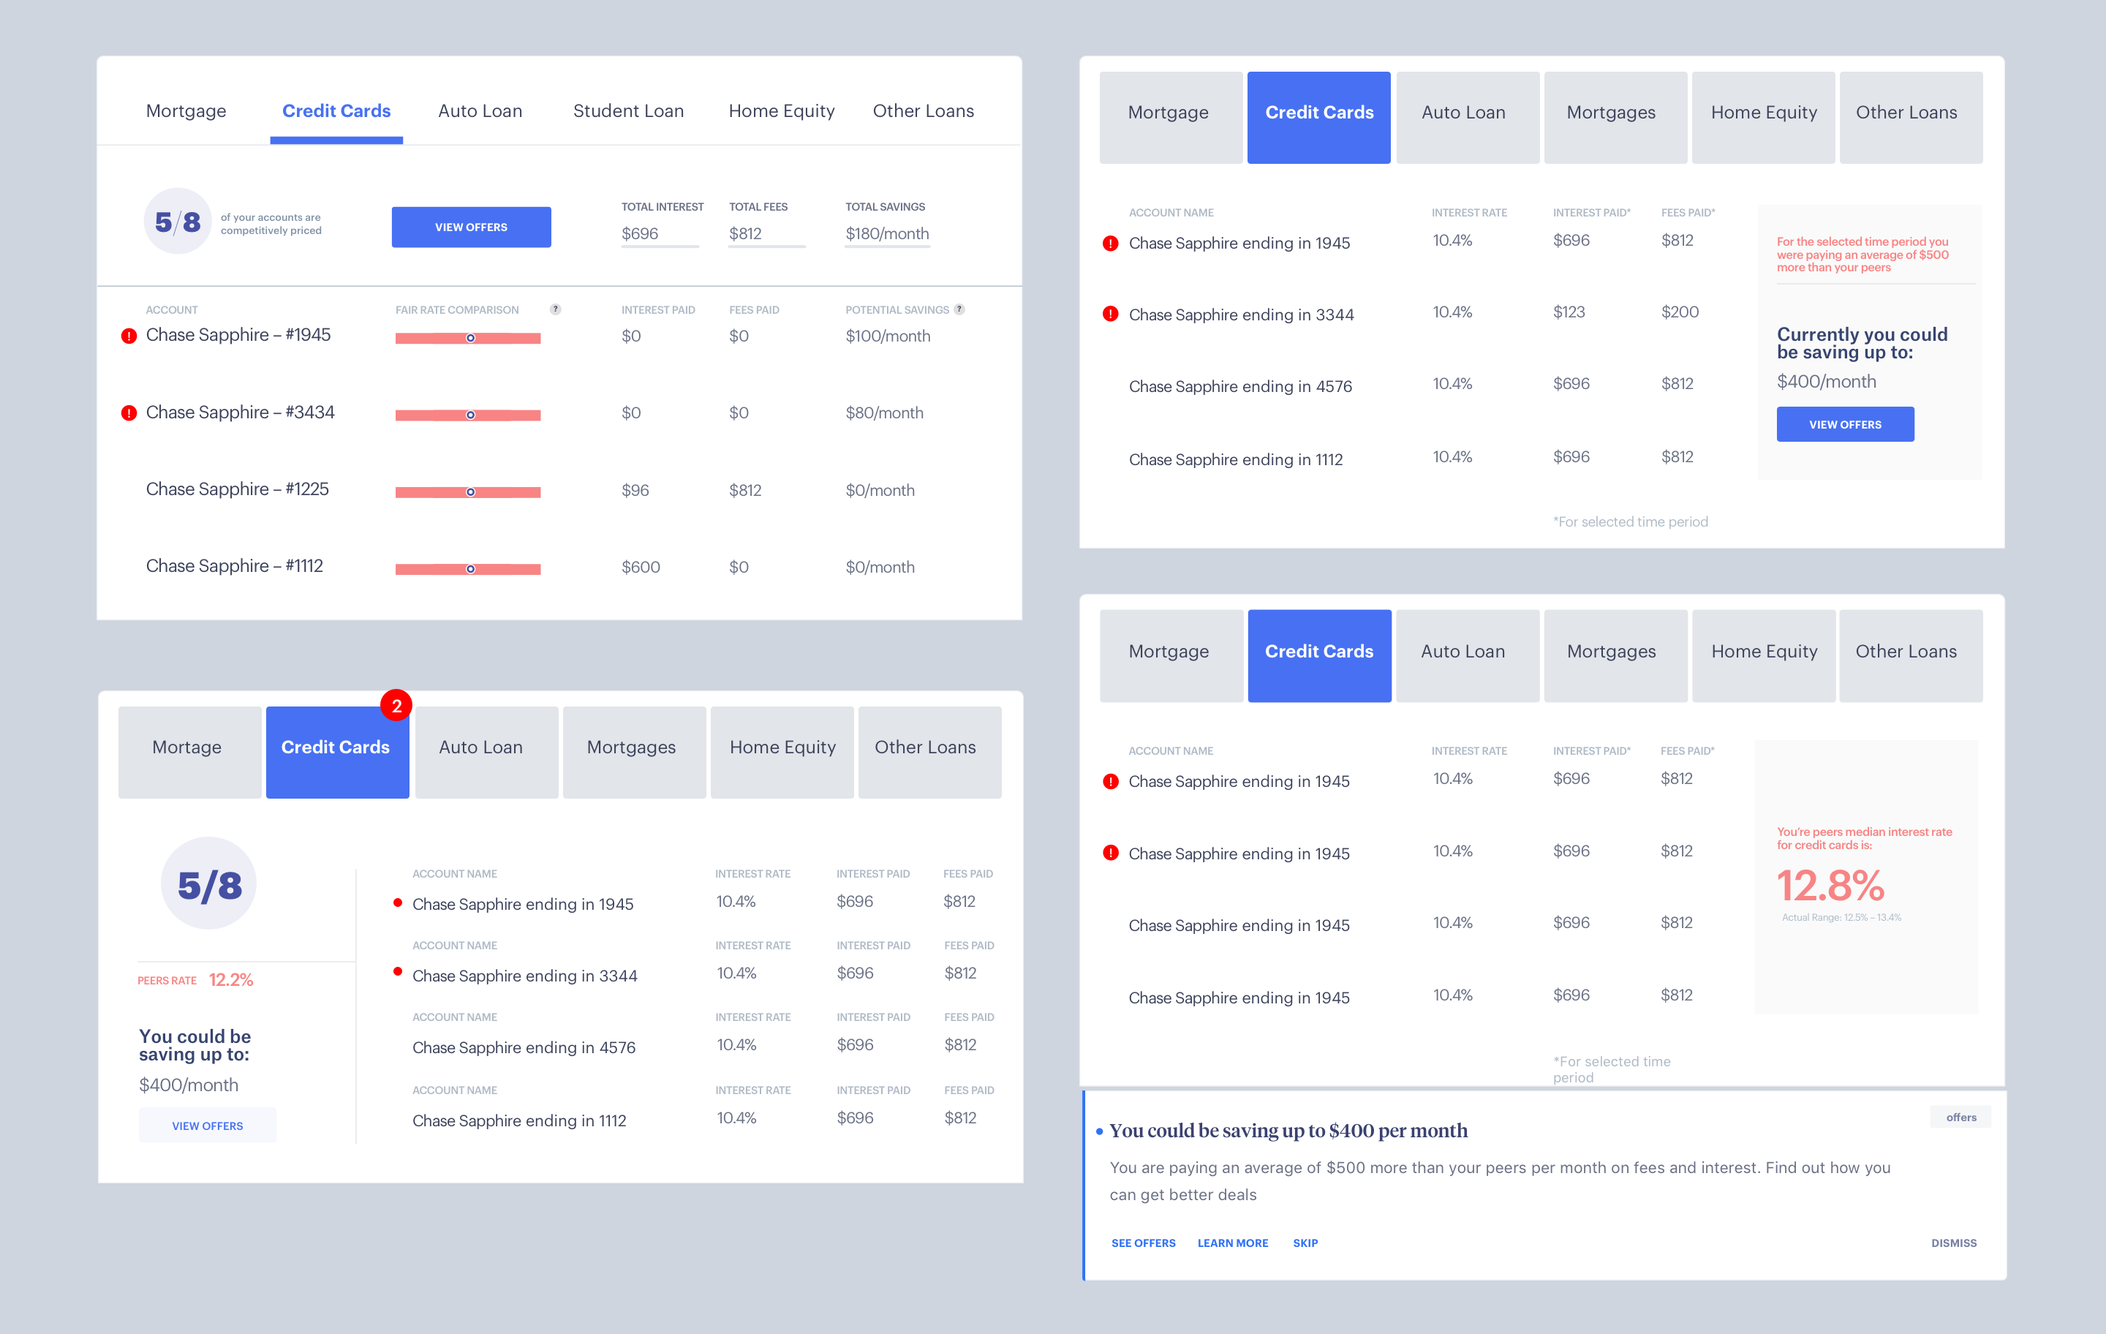
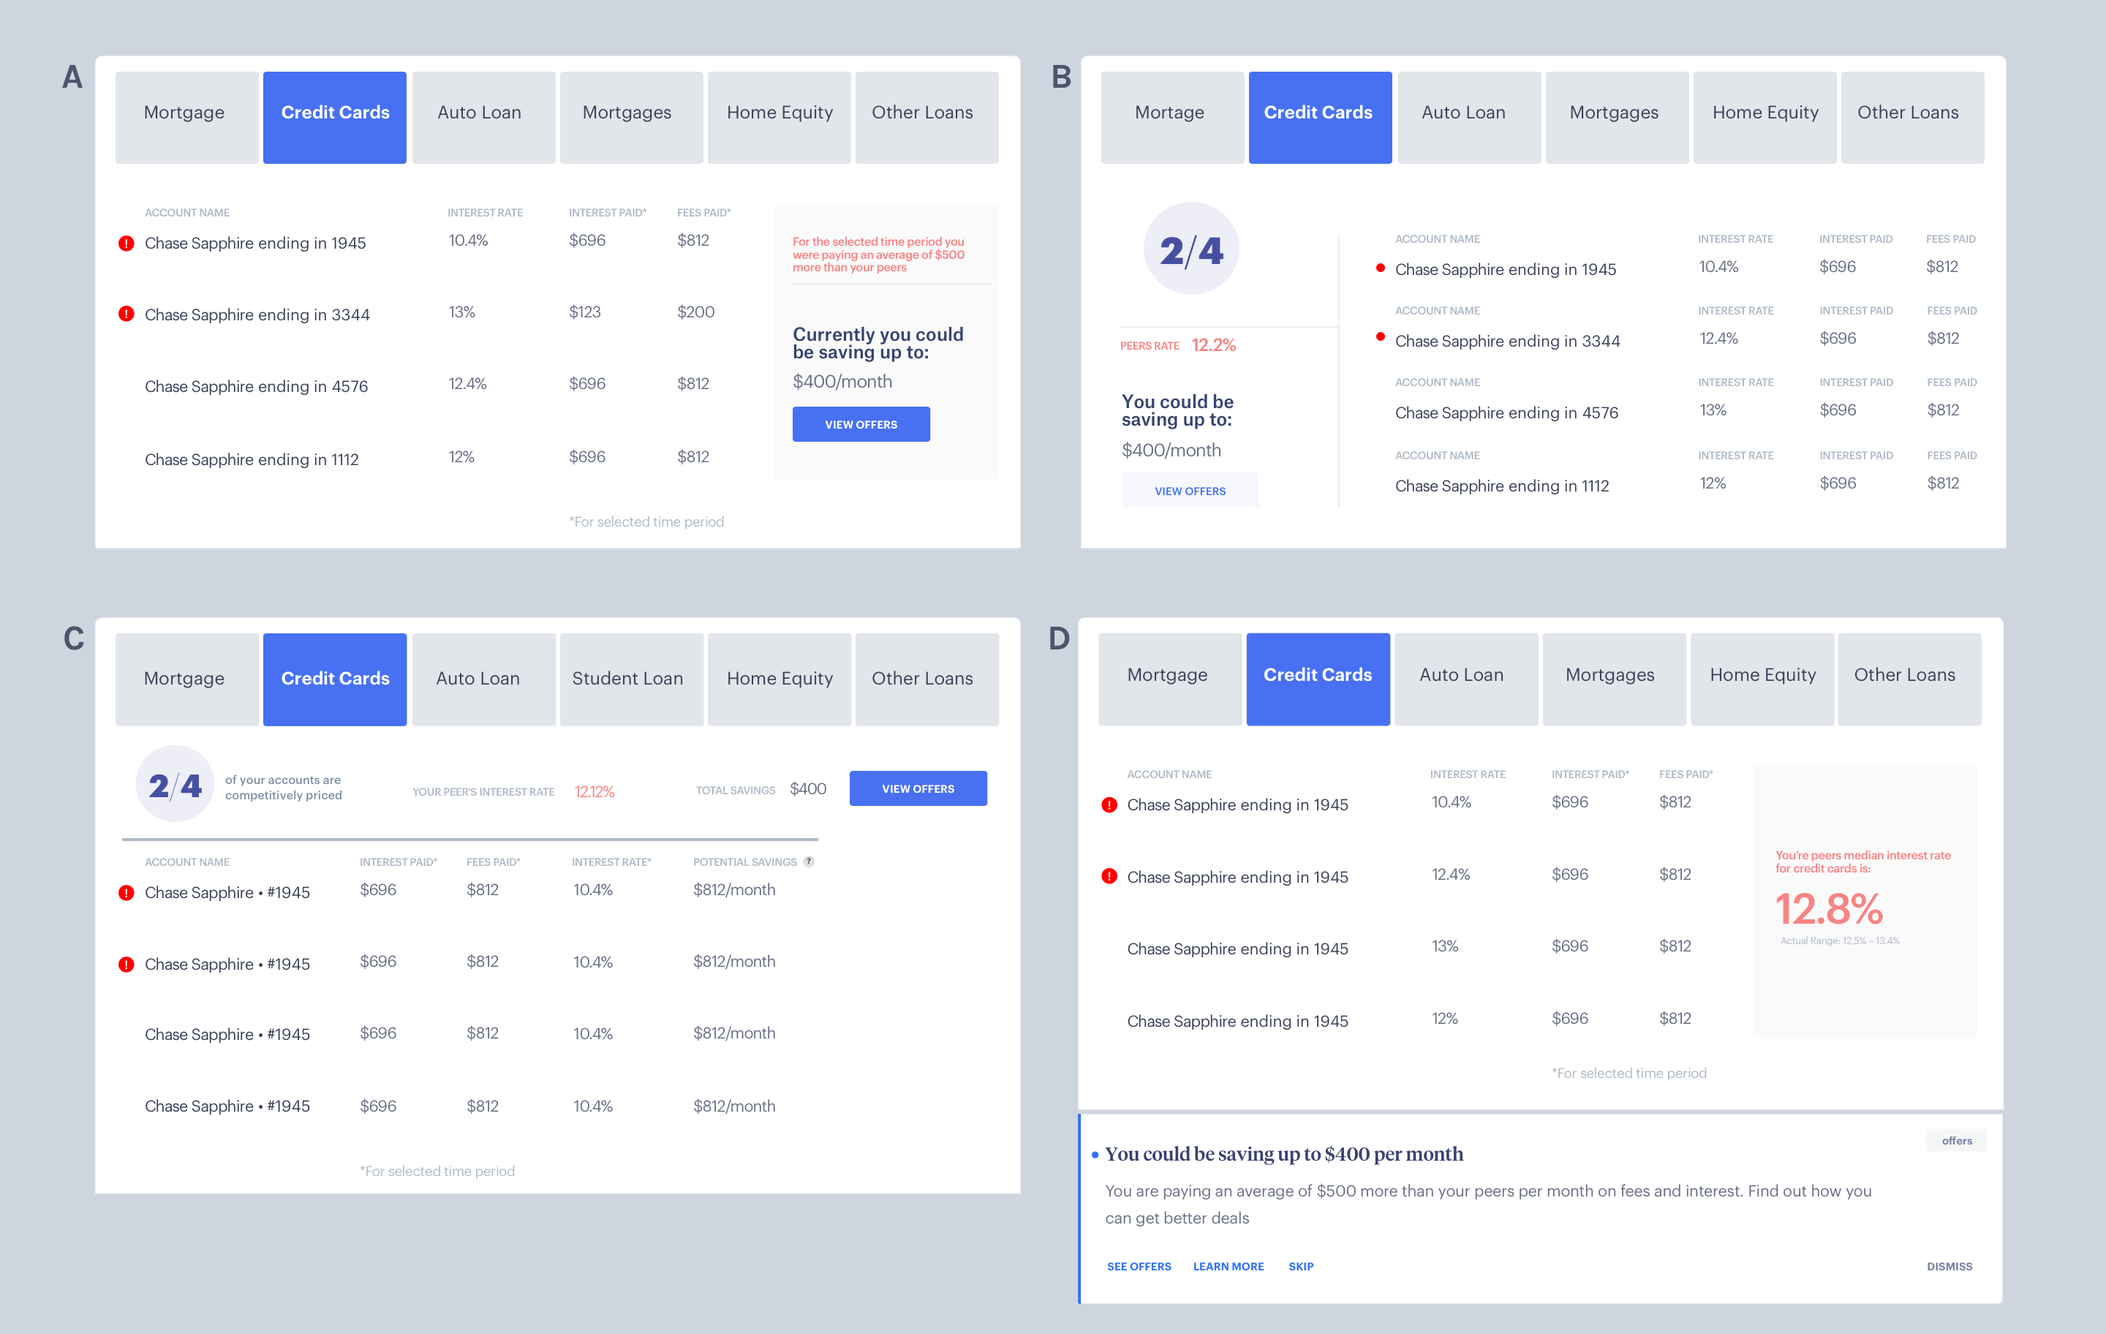
updated all status money copy and layout

diff --git a/sts.html b/sts.html
@@ -75,9 +75,10 @@
 	<!-- HEADER -->
 
 	<!-- HERO  -->
-	<section id="hero" class="hero-full" style="background-image:url('files/images/sts/header-sts.png');">
+   <section id="hero" class="hero-full parallax-section" data-parallax-image="files/images/sts/header_sts.png">
+<!-- 	<section id="hero" class="hero-full" style="background-image:url('files/images/sts/header_sts.png');"> -->
 		<div class="page-title">
-			<h5 class="alttitle">Presenting information clearly</h5>
+			<h5 class="alttitle">Bringing data to the people</h5>
 			<h1><strong>Status Money</strong></h1>
 		</div>
 		<a id="scroll-down" href="#">Scroll Down</a>
@@ -89,8 +90,7 @@
 
 		<div class="wrapper">
 			<div class="project-info column-section clearfix">
-				<div class="column one-th
-				ird">
+				<div class="column one-third">
 					<h6 class="colored"><strong>Date</strong></h6>
 					<h6 class="alttitle">2017</h6>
 				</div>
@@ -118,13 +118,10 @@
 				<div class="column-section clearfix minor-margin">
 					<div class="column two-third">
 						<p>
-						Status Money is a personal finance management platform that allows users to compare their finances with similar peer groups in order to better track their overall financial wellness. I worked on this project while at Elephant, and the project was positioned as a way to test out a new client working relationship. The two key stakeholders and owners of the startup were placed in the office two days out of the week, allowing us to have more informal reviews and consistent daily feedback.
+						Status Money is a personal finance management platform that allows users to compare their finances with similar peer groups in order to better track their overall financial wellness. The MVP of the project was completed over the course of 6 two-week sprints and was taken on by the Elephant team as a test-run of a new, more integrated, client partner relationship. The two key stakeholders of the startup were embedded in the office 2-3 days out of the week, which allowed for more frequent check-ins and faster feedback turnarounds.
 						</p>
 						<p>
-						I was brought on to the project primarily to help develop the modular system of data visualizations as the client moved towards building an MVP that could be presented to investors.
-						</p>
-						<p>
-						I’m going to start out by explaining the basic structure of the site and then review some of the challenges we ran into while developing the data modules.
+						I was brought on to the project as a UX Designer to help develop the onboarding experience and the modular system of data visualizations that would be used throughout the site. Although we built the entire MVP from the ground up, I have framed this case study here with a bit more focused view, going into the thought process behind just one of the data modules we developed.
 						</p>
 
 					</div>
@@ -145,22 +142,57 @@
 		<div class="horizontal-section">
 			<div class="horizontal-inner wrapper" style="padding: 0px;">
 
-				<h3><strong> The Basics </strong></h3>
+				<h3><strong> Key Site Features </strong></h3>
 
 
-			</div><!-- END .horizontal-inner -->
+			</div>
 		</div> <!-- END .horizontal-section -->
 
 		<div class="horizontal-section">
 			<div class="horizontal-inner wrapper" style="padding-top: 40px;">
 
+				<div class="column-section clearfix">
+
+					<div class="column one-half">
+						<h6>1. Data Modules </h6>
+						<p>
+							When I joined the project the general design system had already been established, but more work needed to be done to ensure the library was flexible enough to accommodate a diverse range of different visualizations (pie charts, line graphs, bar charts, etc). Most importantly, each visualization had to clearly present the values of the user's financial status alongside those of their comparative groups.
+						</p>
+					</div>
+
+					<div class="column one-half last-col">
+						<img src='files/images/sts/data-module.png'/>
+					</div>
+
+				</div><!-- END .column-section -->
 
 				<div class="column-section clearfix">
 
 					<div class="column one-half">
-						<h6>1. Group Filter </h6>
+						<h6>2. Insight Cards </h6>
 						<p>
-							The key value add of the product is housed in the side bar Group Filter. By default, the users core “People Like You” peer group was determined by age, income, credit score and asset ownership. Then the user was able to toggle the third comparative group to just people in their area, their income range, etc or build a custom range
+							In order to help users digest all the visual information being presented, each of the visualizations was accompanied by a stack of contextual <strong>Insight Cards</strong>:
+						</p>
+							<ul style="font-size: 14px;">
+								<li><strong> Tracker: </strong><em> Insight related to peer groups or unusual spending </em></li>
+								<li><strong> Alert: </strong><em> Important account notification </em> </li>
+								<li><strong> Offer: </strong> <em> An offer or a promotion </em> </li>
+								<li><strong> Nice to Know: </strong> <em> Interesting, but not actionable trend. </em> </li>
+							</ul>
+					</div>
+
+					<div class="column one-half last-col">
+						<img src='files/images/sts/insight-cards.png'/>
+					</div>
+
+				</div><!-- END .column-section -->
+
+				<div class="column-section clearfix">
+
+					<div class="column one-half">
+						<h6>3. Group Filter Sidebar</h6>
+						<p>
+							The ever-present <strong> Group Filter Sidebar </strong> displayed the color key for all the data comparisons. From the sidebar users were able to see the details of how their "People Like You" peer group (users with similar age, income, credit score and asset ownership) as well as toggle a third comparative group of people in their city, income range or more custom criteria.
 						</p>
 					</div>
 
@@ -170,7 +202,7 @@
 
 				</div><!-- END .column-section -->
 
-				<div class="column-section clearfix">
+<!-- 				<div class="column-section clearfix">
 
 					<div class="column one-half">
 						<h6>2. Category/Time Filter </h6>
@@ -183,33 +215,17 @@
 						<img class="wire-border" src='files/images/sts/filter.png'/>
 					</div>
 
-				</div><!-- END .column-section -->
-
-				<div class="column-section clearfix">
-
-					<div class="column one-half">
-						<h6>3. Data Modules </h6>
-						<p>
-							Finally, the core of the product were the data modules. I will get into the different types of graphs and charts we developed but the basic format is that there is a graph attached to a serious of insight cards. The cards presented four different types of information:  Tracker, Alert, Offer, or Nice To Know.
-						</p>
-					</div>
-
-					<div class="column one-half last-col">
-						<img class="wire-border" src='files/images/sts/card-module.png'/>
-					</div>
-
-				</div><!-- END .column-section -->
+				</div> -->
 
 <!-- 				<div class="column-section">
 					<img src='files/images/sts/overview-design.png'/>
 				</div> -->
 
-				<div class="column-section">
-
+				<div class="column-section clearfix">
 					<a href="http://www.youtube.com/embed/e2rDNy1nM-8?rel=0&amp;showinfo=0" data-rel="lightcase"><img src="files/images/sts/dashboard-placeholder.png"/ alt="Play Video"></a>
 				</div>
 
-			</div><!-- END .horizontal-inner -->
+			</div>
 		</div> <!-- END .horizontal-section -->
 
 
@@ -219,26 +235,28 @@
 				<div class="column-section clearfix">
 					<div class="column two-third">
 
-						<h3><strong> Bring on the data </strong></h3>
-
-						<p> As with many of the modules we developed, it was important to strike a balance of providing helpful, actionable information to the user without overwhelming them. For the debts and liabilities page, one key module we needed was one that showed the user an overview of their liabilities and informed them if they were getting the best rates compared to their peers. </p>
+						<h3><strong> Bring on the Data  </strong></h3>
+						<p>The <strong> interest rate module </strong>, which displayed the interest rates and monthly fee/interest totals for all of the user's debt accounts, was one of the more text-heavy modules that we were tasked with. It was a particularly interesting challenge trying to strike the right balance of visual aid and supportive text. </p>
 					</div>
 				</div>
 
 
-			</div><!-- END .horizontal-inner -->
+			</div>
 		</div> <!-- END .horizontal-section -->
 
 		<div class="horizontal-section">
 			<div class="horizontal-inner wrapper">
 
-					<h4> Tabs and Notifications </h4>
+					<h4> Notifications </h4>
 
 					<div class="column-section clearfix has-animation" data-delay="100">
 
 						<div class="column one-third">
-							<h6>A. Chart Tabs </h6>
-							<p> Our first stab at denoting the number of your accounts that were eligible for a better rate was to use these circle graphics. This ended up not working so well, as it made it seem like some sort of fraction. Then the user had to some weird backwards thinking in order to figure out why it said 0/2 instead but there was two red notifications. In end we ended up bringing it back but in the iniital layout it really felt confusing
+							<h6>A. Progress Circle  </h6>
+							<p>
+
+							In this first iteration, the number of accounts with competitive rates is displayed over the total number of that type of debt account. This treatment was supposed to present a sense of urgency to "complete the circle" and achieve a better financial status. </br> <em> However, it quickly became clear that the circle graphic was too confusing to interpret, and the harsh red error was more annoying than encouraging. </em>
+
 							</p>
 						</div>
 
@@ -253,7 +271,7 @@
 
 						<div class="column one-third">
 							<h6>B. Text Notification</h6>
-							<p> We also tried a more text based approach but ran into some issues with readability. Also with the red marks, it made it seem as if there was an error with their accounts
+							<p> I suggested we try a simpler text approach but ran into some issues with readability. Also with the exclamation marks, it made the error just as harsh as before.
 							</p>
 						</div>
 
@@ -268,7 +286,7 @@
 
 						<div class="column one-third">
 							<h6> C. Badge Notification </h6>
-							<p> We then moved on to try a more notification badge approach, letting the user know that there was something to be evaluated with their account.
+							<p> More like an app notification, the badge approach made it clear how many accounts were in need of attention. Although, it was clearthat red was likely not the right color to go with for these notifications.
 							</p>
 						</div>
 
@@ -278,26 +296,25 @@
 
 					</div><!-- END .column-section -->
 
-
-
 					<div class="spacer spacer-medium"> </div>
+
+					<p> Interest photo here of sketches </p>
 
 					<div class="column-section clearfix">
 
 						<div class="column two-third last-col">
 
-							<h4> Peer Comparison and View Offers </h4>
+							<h4> Peer Comparison and Offers </h4>
 
-							<p> As we continued to experiment with the best form of notification style, we needed to figure out way to display the peer interest rate with the value of your savings and a CTA to view offers relevant to you </p>
-
-							<p> With the full card there were a few questions we needed to answer: </p>
+							<p> Once the user was made aware of their eligible accounts, the next step was to solve for two key questions:
+							</p>
 
 							<ul>
-								<li> <strong> What peer information would be most helpful in determining the competitiveness of the user's interest rates? </strong> </li>
-								<li> <strong> How do we make clear the total savings the user is missing out on? </strong> </li>
+								<li> <strong> What peer information would be most helpful for the user to gage the competitiveness of their current interest rates? </strong> </li>
+								<li> <strong> How do we make clear the total savings the user is missing out on with their current interest rates? </strong> </li>
 							</ul>
 
-							<p> In the top right iteration, we wanted to show how the total savings was an exact calculation of all the individual savings from the user's accounts but the placement at the top seemed off. Then in the bottom right iteration we tried separating the information about interest rate from the savings by pulling the savings into the insight car. Pulling it into a side card seemed redundant so we then opted to show the savings in the insight card that was already a part of the design. </p>
+							<p> In Option A, I presented the average overspend along with the potential savings but these numbers competed too much with one another. In Option B and Option C I minimized the importance of the peer rate in an effort to highlight the potential savings (the more valuable metric) but the balance of information still felt too similar across the card. Taking a step in the opposite direction, I tried in Option D to pull the savings into card and present the median peer interest rate as a prominent number that could easily be compared to the user's listed debt account rates. </p>
 
 						</br>
 						</br>
@@ -306,7 +323,7 @@
 
 					</div> <!-- END .column-section -->
 
-					<img src='files/images/sts/savings-total-cards.png'/>
+					<img id="savingscard" src='files/images/sts/savings-total-cards.png'/>
 
 					<div class="column-section clearfix">
 
@@ -315,9 +332,9 @@
 						</div>
 
 						<div class="column two-third last-col">
-							<h5> Peer Rate Comparison </h5>
-							<p> In the middle of developing this module we recieved legal feedback that we couldn't show just one number for the average peer rate comparison since it was actually a range. As a result we then had to shift our energy into figuring out how to show this additional value that could no longer be simplified down into a single value. So the value we had been showing to the right in the modules needed to be shown more accurately.  </p>
-							<p> We experimented with simplifying and having less data, as well as switching to a text based notification rather than visual </p>
+							<h5> Peer rate range</h5>
+							<p> In the middle of tackling this issue of displaying the average peer rate we received legal feedback that we couldn't show just one number for the median peer rate since the range was more accurate . As a result we shifted our perspective and attempted to present both the user's interest rates and the peer's average rates in the same visualization. </p>
+							<p> I presented a few options for internal review that were more graphical as well as a text-based approach which ended up skewing too far away from our existing style guide. </p>
 						</div>
 
 
@@ -353,8 +370,8 @@
 					<div class="column-section clearfix">
 
 						<div class="column two-third">
-						<h5> Further Iterations </h5>
-						<p> After presenting the wireframes I worked closely with our visual designer, John Signsbaugh, to develop further visual treatments of the rate comparison as well as the savings total.
+						<h5> Moving into visual design </h5>
+						<p> After getting feedback on the above approaches I worked I worked closely with our visual designer to develop further visual treatments of the rate comparison and total savings. Paying especially close attention to the clarity of the notification coloring and the view offers CTA.
 						</div>
 
 					</div> <!-- END .column-section -->
@@ -365,8 +382,8 @@
 					<div class="column-section clearfix">
 
 						<div class="column two-third last-col">
-						<h4> End Result </h4>
-						<p> This is the final page. I was happy with the result and think that we solved a lot of the problems </p>
+						<h4> Final Design: Your Debts </h4>
+						<p> In the end we pulled in a strongly visual influence from the style guide of our other data visualizations and ensured ample breathing room for all the data. The view offers CTA is at the top so that the user can easily jump to the offers page or dig deeper into each account and how their rate compares to their peers.  </p>
 						</div>
 
 					</div> <!-- END .column-section -->
@@ -375,7 +392,7 @@
 					<img src='files/images/sts/debt-fullpage.jpg'/>
 
 
-			</div><!-- END .horizontal-inner -->
+			</div>
 		</div> <!-- END .horizontal-section -->
 
 		<div class="horizontal-section back-gray">
@@ -386,12 +403,15 @@
 
 						<h3><strong> More to come!  </strong></h3>
 
-						<p> This has obviously been more of a breakdown of one of the parts of the site. I hope to do more thorough breakdowns of the onboarding and other processes soon. In the meantime check out the site for yourself at statusmoney.com </p>
+						<p> I hope to update this case study with more breakdowns of the onboarding process and the other data modules sometime soon, but in the meantime I encourage you to check out your own status at <a href="statusmoney.com"> statusmoney.com</a> and start making those first steps to a brighter financial future (filled with helpful tooltips and lots of soft grays).
+						</p>
+						<p>
+						Or you can just take other people's word for it: </p>
 					</div>
 				</div>
 
 
-			</div><!-- END .horizontal-inner -->
+			</div>
 		</div> <!-- END .horizontal-section -->
 
 		<div class="horizontal-section">
@@ -424,7 +444,7 @@
 
 				</div> <!-- END .column-section -->
 
-			</div><!-- END .horizontal-inner -->
+			</div>
 		</div> <!-- END .horizontal-section -->
 
 
